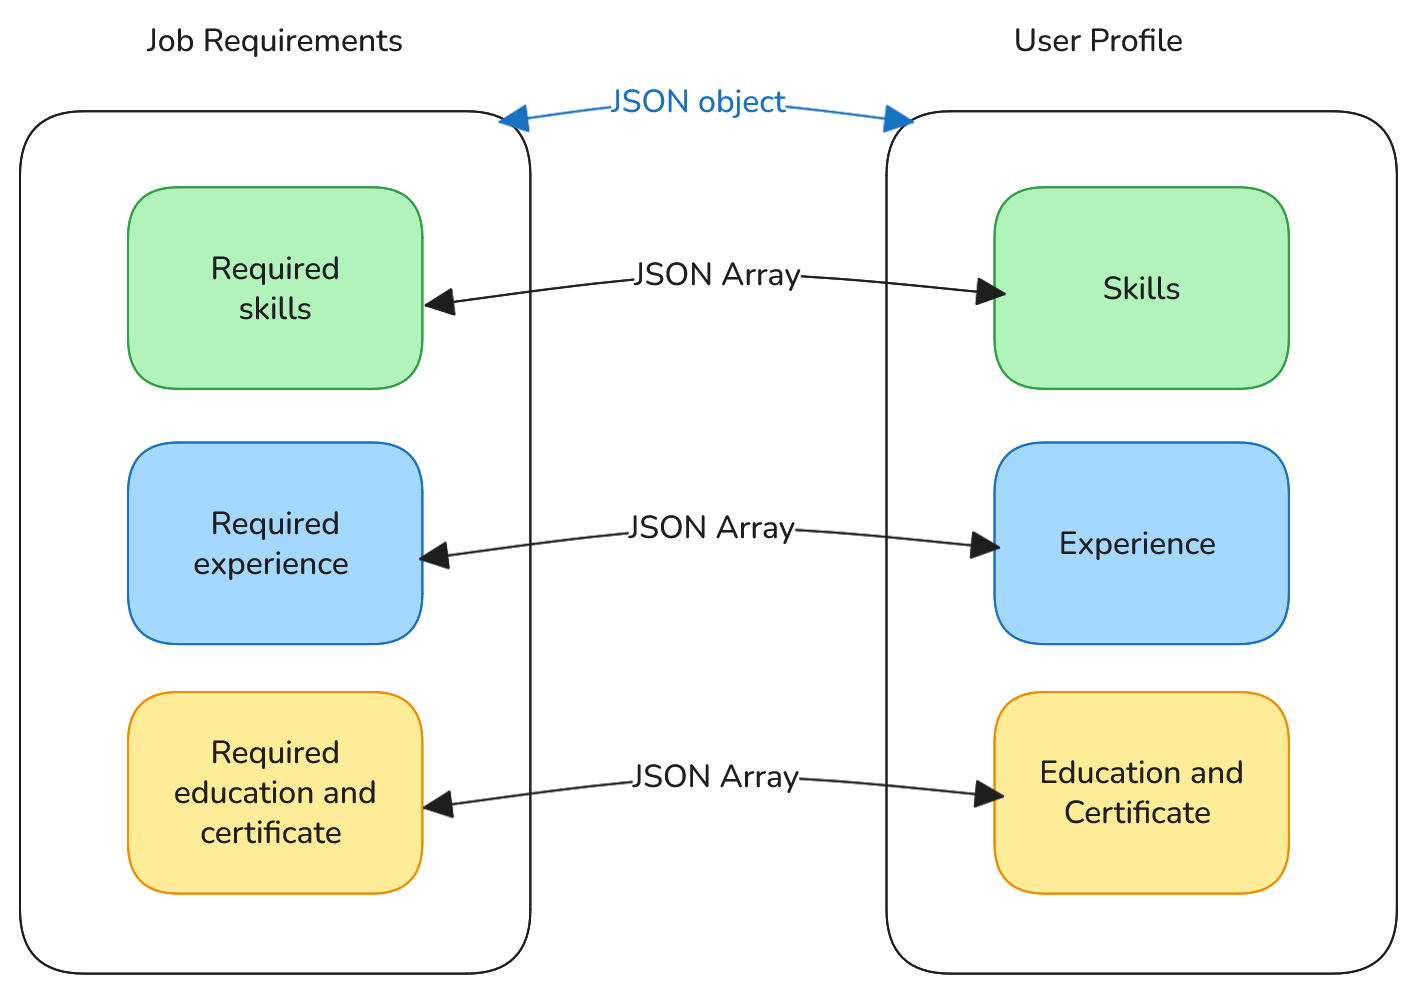
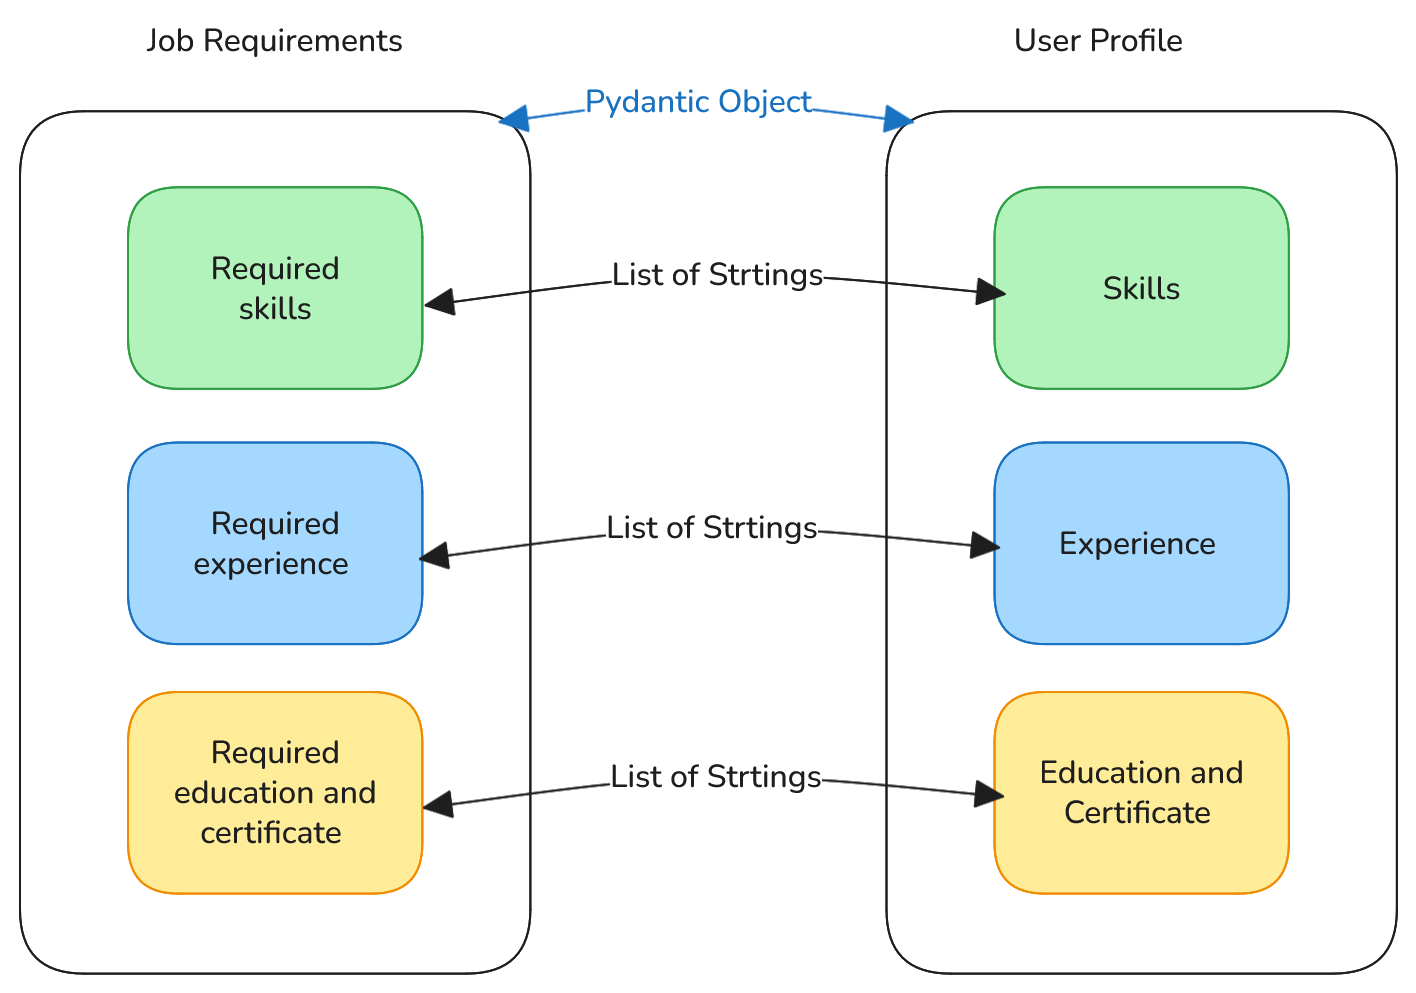
Replace System Architecture diagram with new detailed one

diff --git a/implementation.tex b/implementation.tex
@@ -16,7 +16,7 @@ All experiments and inference tasks were conducted on a dual GPU setup (2x 12GB 
 
 \begin{figure}[h]
 	\centering
-	\includegraphics[width=0.65\textwidth,height=0.9\textwidth]{images/system-architecture2.pdf}
+	\includegraphics[width=\textwidth]{images/job-matching-system-architecture}
 	\caption{System Architecture}
 	\label{fig:system_architecture}
 \end{figure}
